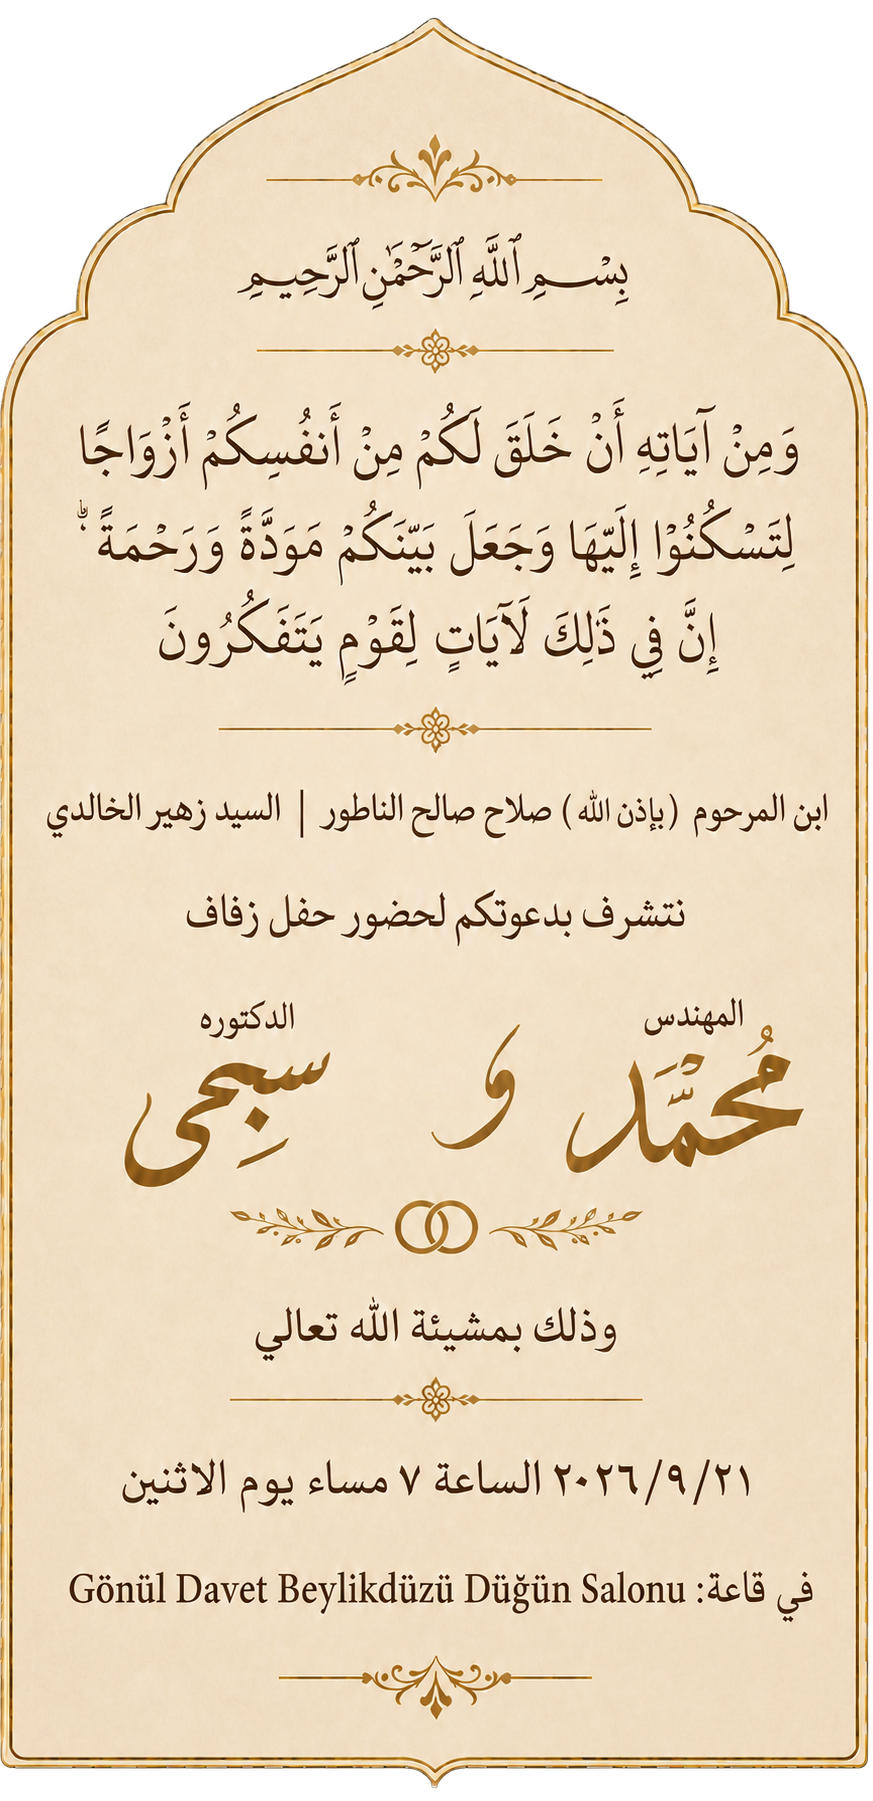
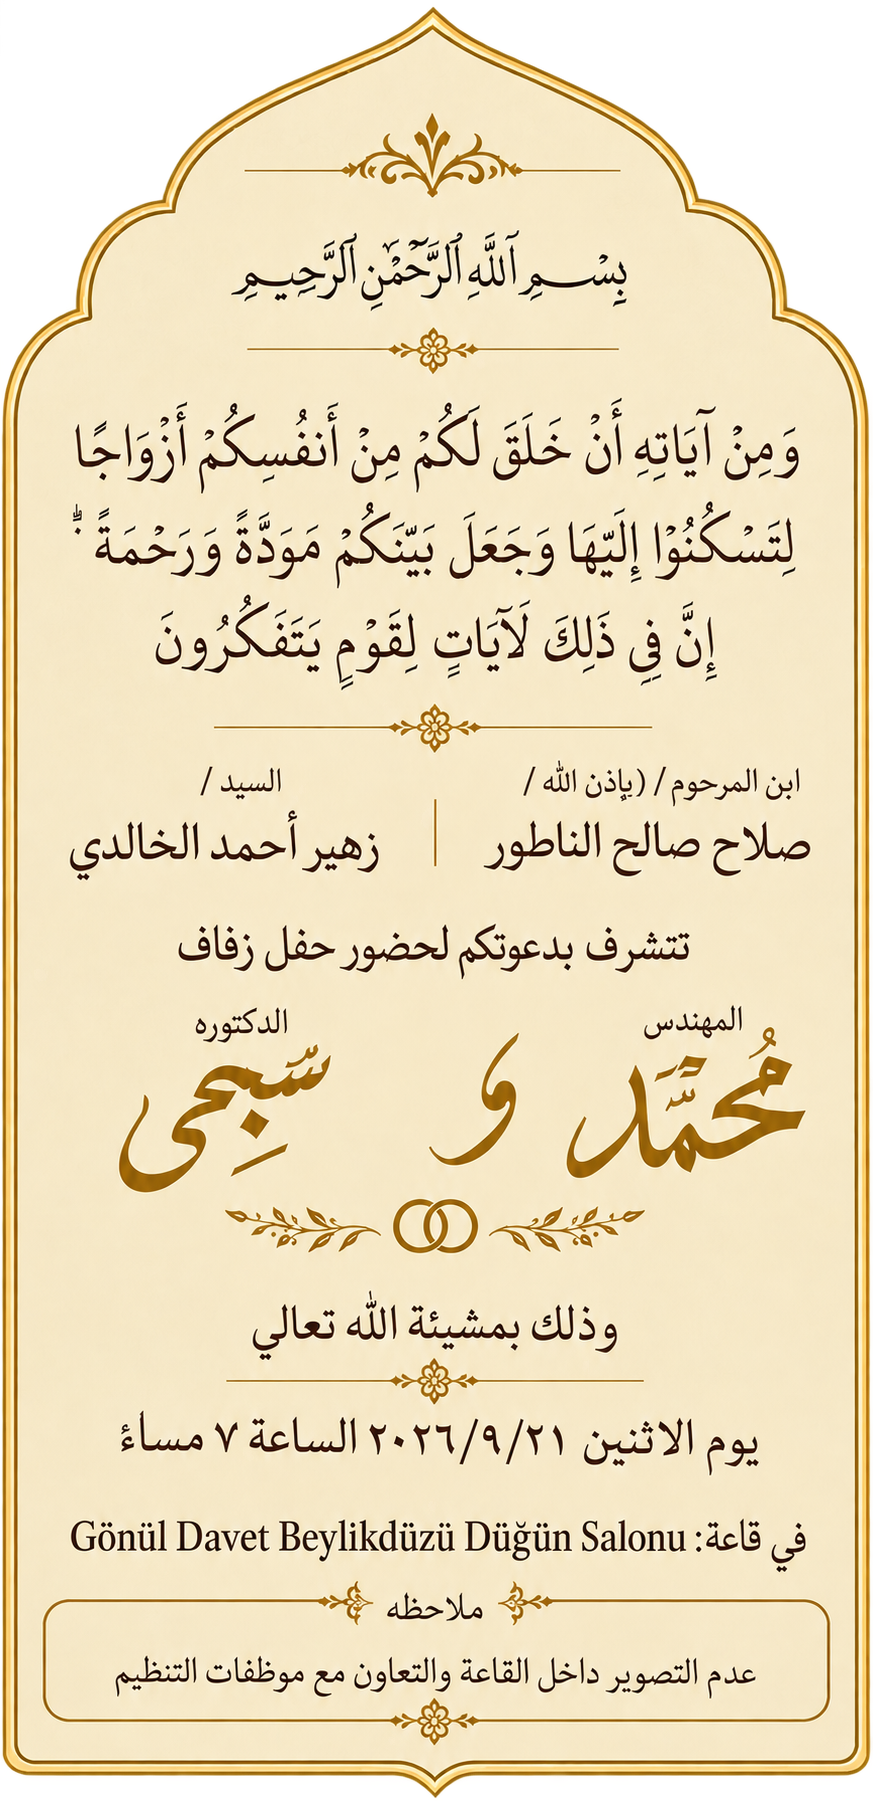
up

diff --git a/index.html b/index.html
@@ -10,7 +10,7 @@
         <meta property="og:title" content="دعوة فرح محمد وسجى"/>
         <meta property="og:description" content=""/>
         <meta property="og:type" content="website"/>
-        <meta property="og:image" content="images/image.png"/>
+        <meta property="og:image" content="images/invitation-card.png"/>
         <!-- <link rel="canonical" href="https://webgencyinvitations.com/blossomoud"> -->
         <!--/metatextblock-->
         <meta name="format-detection" content="telephone=no"/>
